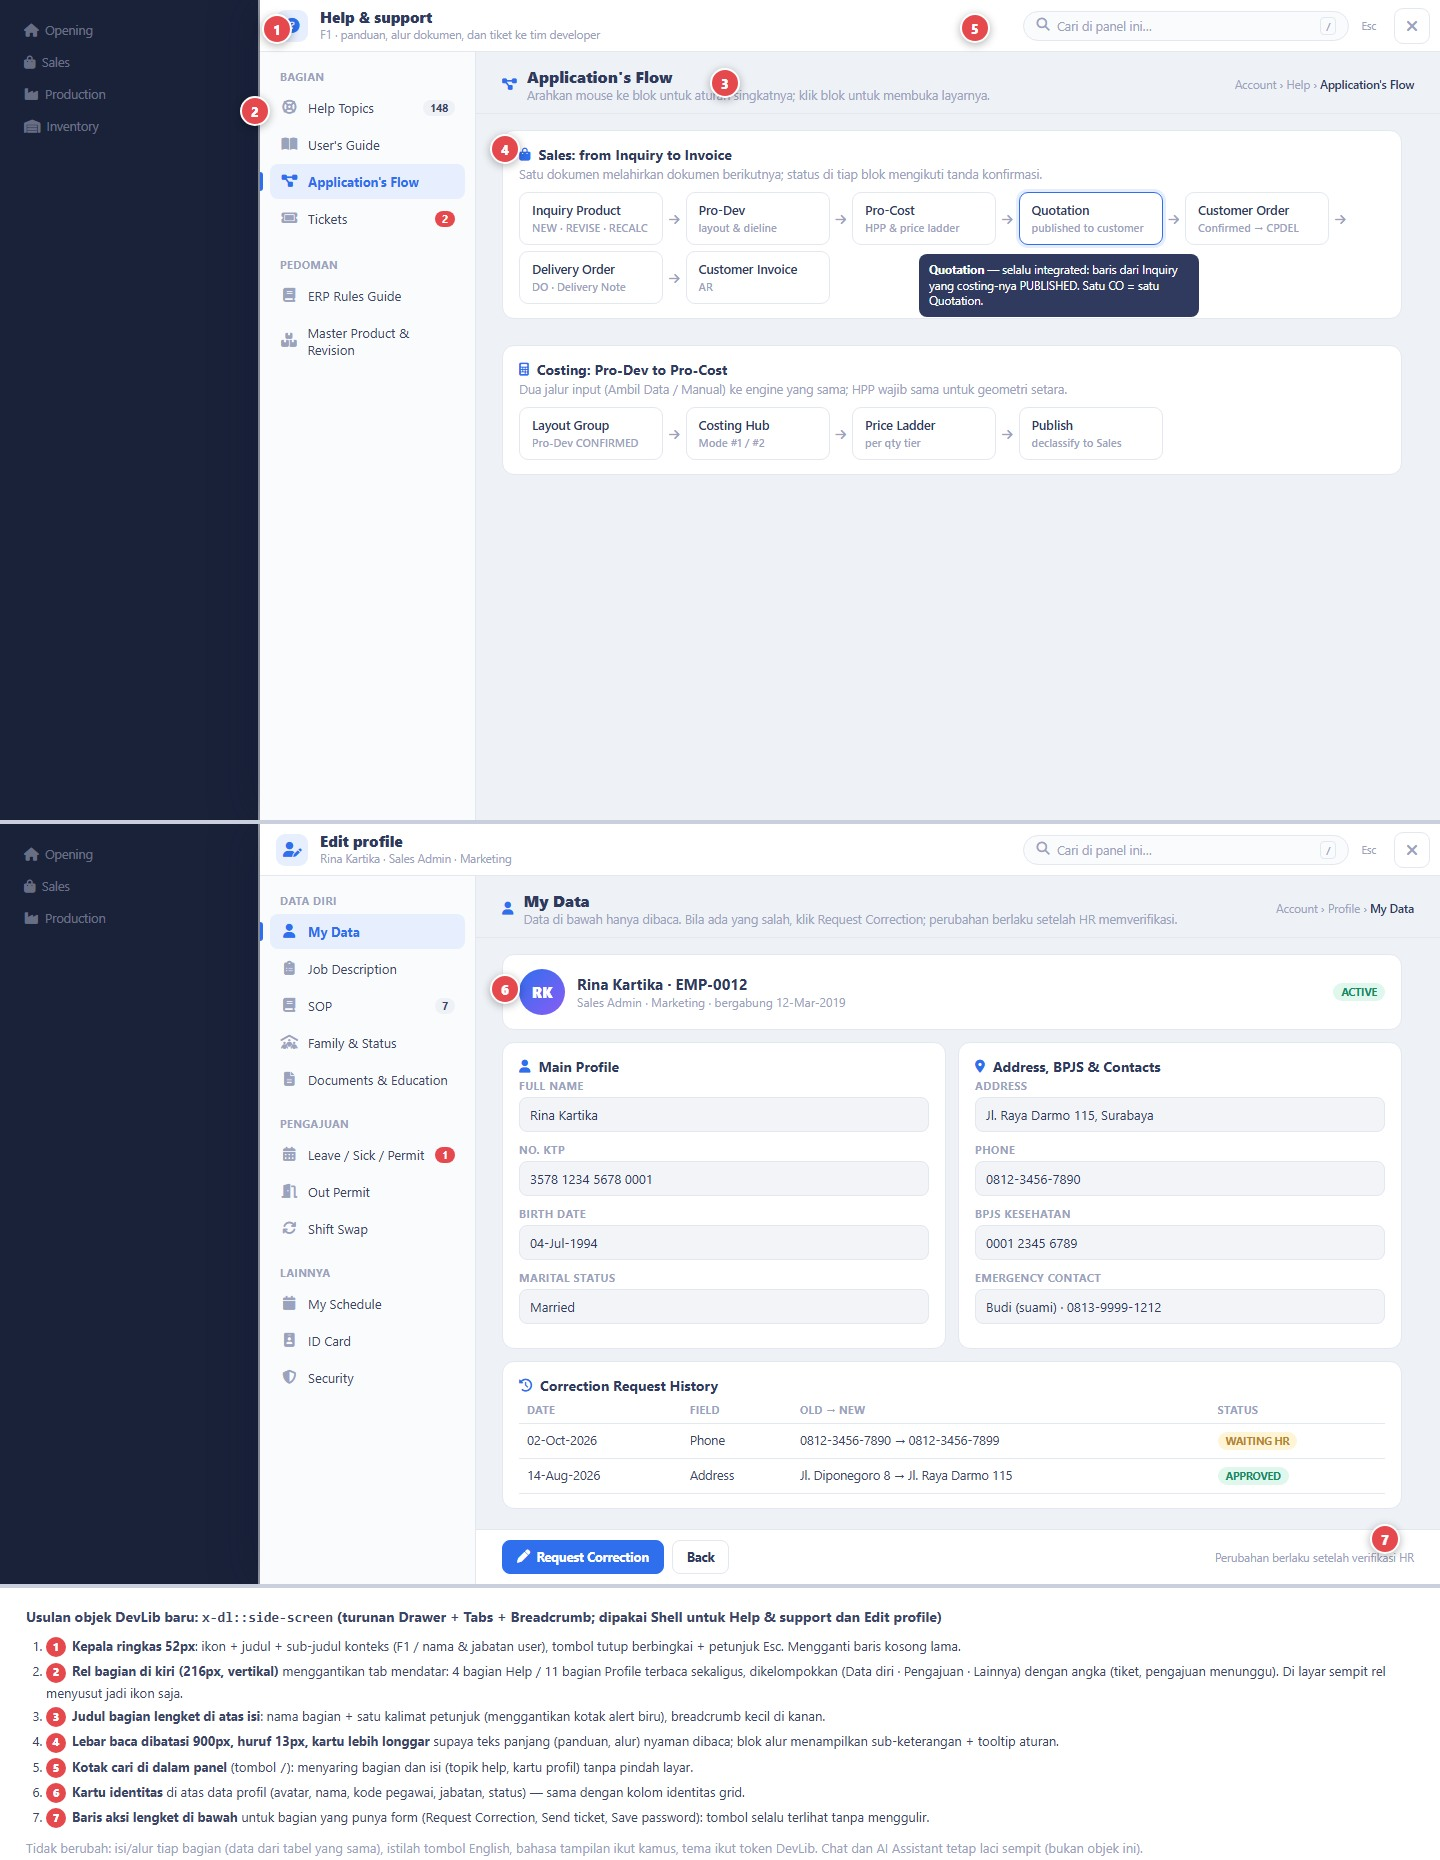
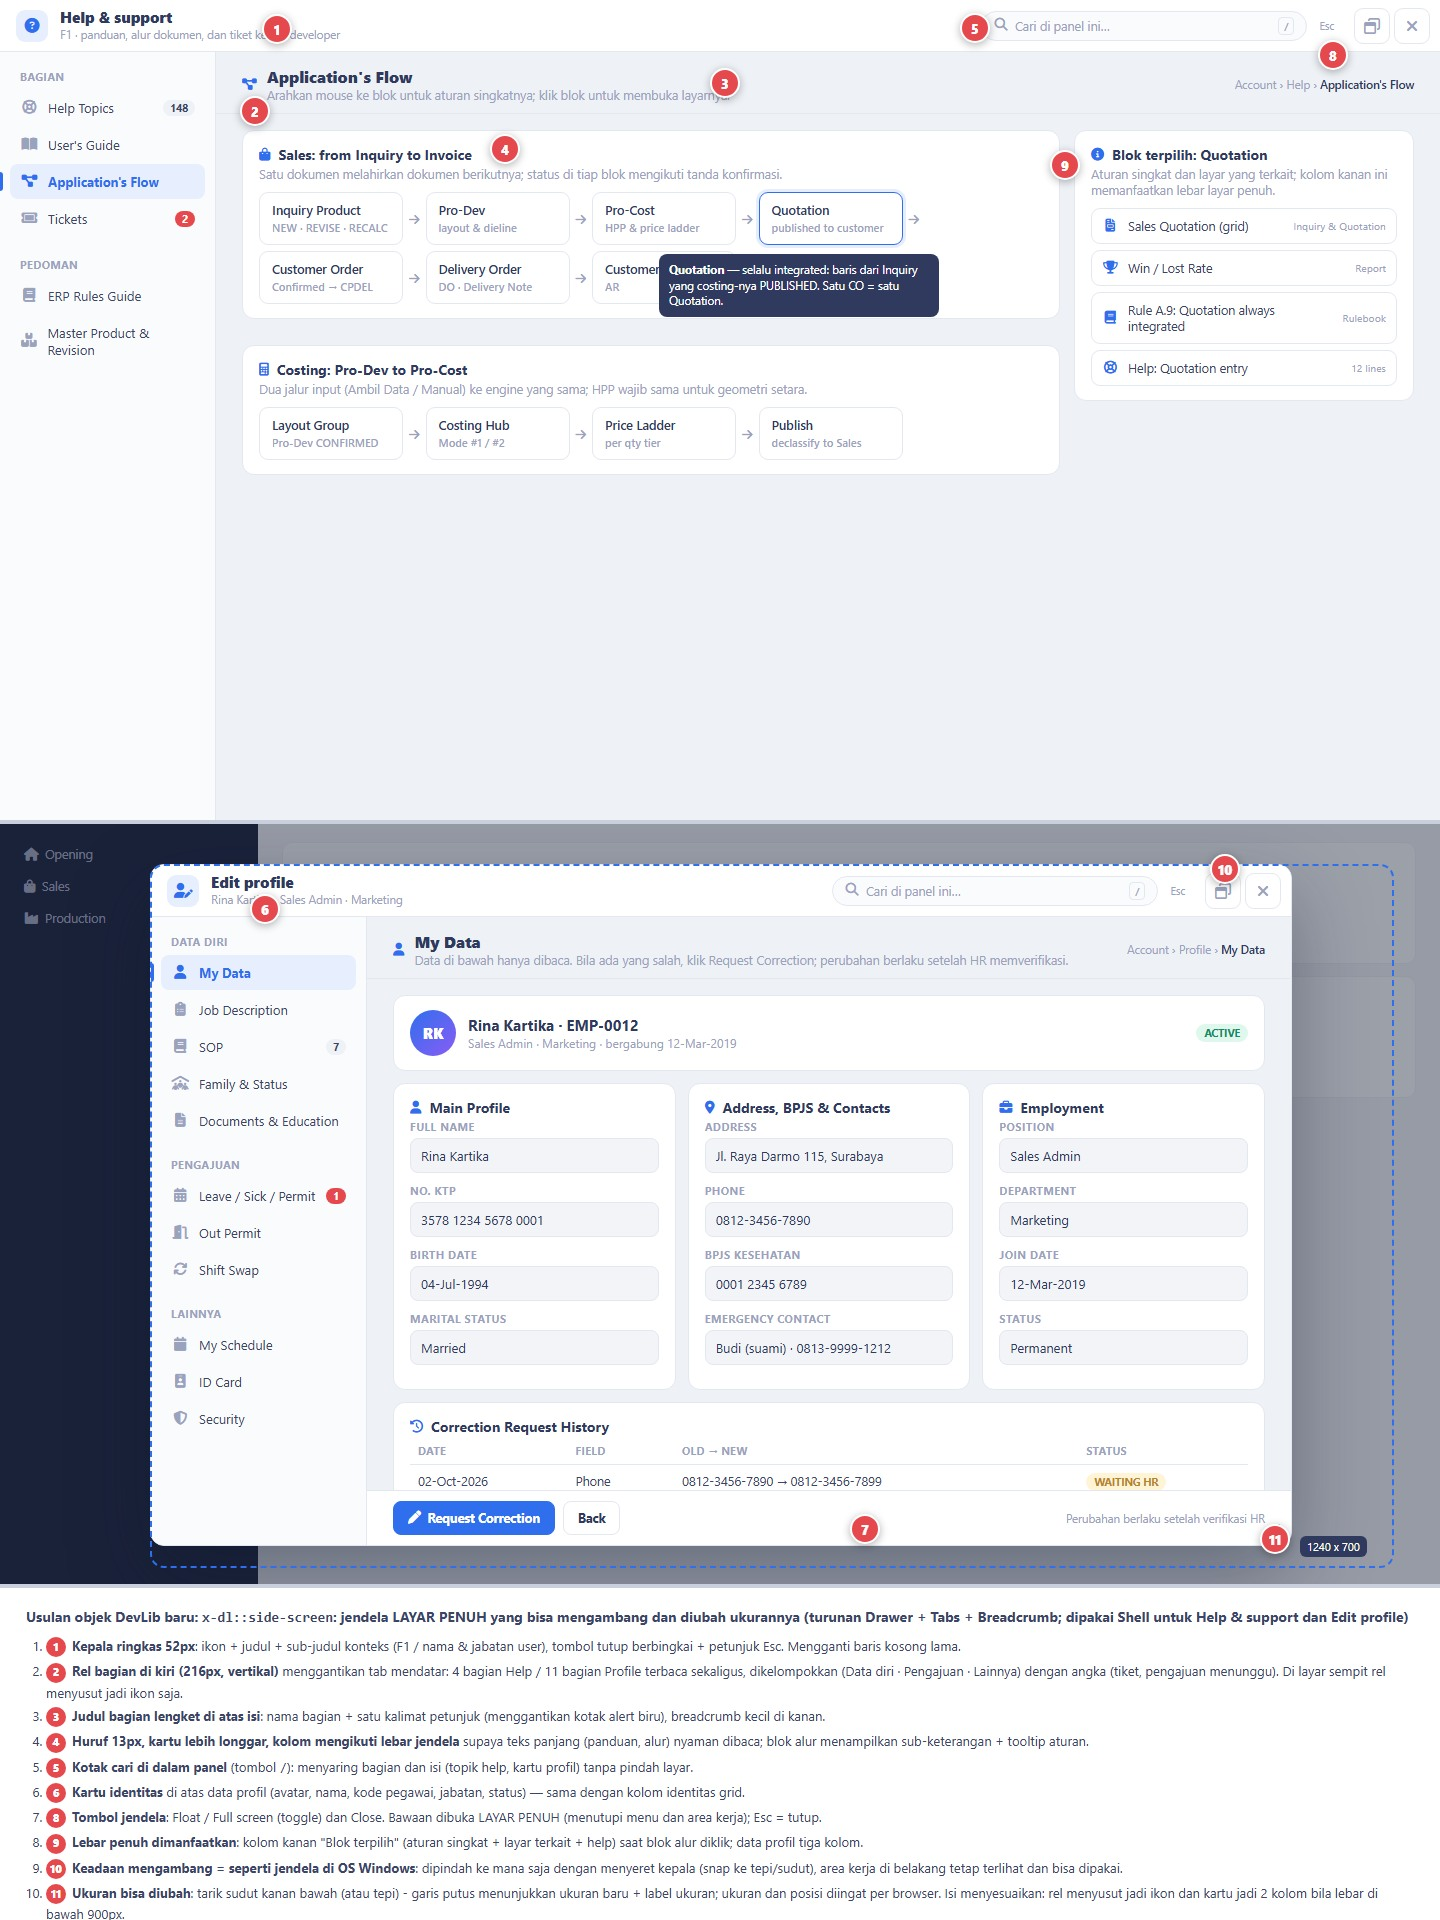
Mockup x-dl::side-screen revised per user: full screen by default, floating window like Windows (move + resize), no minimize

diff --git a/docs/mockups/side_screen_drawer.html b/docs/mockups/side_screen_drawer.html
@@ -15,7 +15,7 @@
   .app .work .box{height:120px;background:#fff;border:1px solid var(--dl-border);border-radius:10px;margin-bottom:12px}
   .shade{position:absolute;inset:0;background:var(--dl-overlay-soft)}
   /* ====== objek baru: x-dl::side-screen ====== */
-  .ss{position:absolute;top:0;right:0;bottom:0;width:1180px;background:var(--dl-surface);box-shadow:-12px 0 40px rgba(15,22,45,.22);display:grid;grid-template-rows:52px 1fr;grid-template-columns:216px 1fr}
+  .ss{position:absolute;inset:0;width:auto;background:var(--dl-surface);box-shadow:-12px 0 40px rgba(15,22,45,.22);display:grid;grid-template-rows:52px 1fr;grid-template-columns:216px 1fr}
   .ss__head{grid-column:1/3;display:flex;align-items:center;gap:12px;padding:0 10px 0 16px;border-bottom:1px solid var(--dl-border);background:var(--dl-surface)}
   .ss__ico{width:32px;height:32px;border-radius:9px;background:var(--dl-accent-soft);color:var(--dl-accent);display:grid;place-items:center;font-size:15px}
   .ss__title{font-weight:800;color:var(--dl-ink-strong);font-size:15px;line-height:1.1}
@@ -39,7 +39,7 @@
   .ss__sec p{margin:0;color:var(--dl-muted);font-size:12.5px}
   .ss__sec .crumb{margin-left:auto;font-size:11.5px;color:var(--dl-muted)}
   .ss__sec .crumb b{color:var(--dl-ink-strong);font-weight:600}
-  .ss__content{padding:16px 26px 30px;max-width:900px;display:flex;flex-direction:column;gap:12px}
+  .ss__content{padding:16px 26px 30px;max-width:none;display:flex;flex-direction:column;gap:12px}
   .card{background:var(--dl-surface);border:1px solid var(--dl-border);border-radius:12px;padding:14px 16px}
   .card h3{margin:0 0 2px;font-size:14px;font-weight:700;color:var(--dl-ink-strong);display:flex;align-items:center;gap:8px}
   .card h3 i{color:var(--dl-accent);font-size:13px}
@@ -76,6 +76,20 @@
   .legend ol{margin:0;padding-left:20px}
   .legend li{margin-bottom:4px}
   .legend .k{display:inline-grid;place-items:center;width:20px;height:20px;border-radius:50%;background:#e5484d;color:#fff;font-weight:800;font-size:11px;margin-right:6px}
+
+  .ss__win{display:flex;align-items:center;gap:4px;margin-left:6px}
+  .ss__win .ss__x{margin:0}
+  .ss--float{inset:auto;top:40px;left:150px;width:1140px;height:680px;border-radius:14px;overflow:hidden;box-shadow:0 30px 80px rgba(15,22,45,.35);border:1px solid var(--dl-border)}
+  .ss--float .ss__head{cursor:move}
+  .grip{position:absolute;right:5px;bottom:5px;color:var(--dl-muted);font-size:13px;transform:rotate(-45deg)}
+  .edge{position:absolute;border:2px dashed var(--dl-accent);border-radius:14px;pointer-events:none}
+  .sizetag{position:absolute;background:var(--dl-toast);color:#fff;font-size:11px;border-radius:6px;padding:3px 7px}
+  .row3{display:grid;grid-template-columns:1fr 1fr 1fr;gap:12px}
+  .side{display:grid;grid-template-columns:1fr 340px;gap:14px;align-items:start}
+  .list{display:flex;flex-direction:column;gap:6px}
+  .list .it{display:flex;gap:10px;align-items:center;padding:9px 10px;border:1px solid var(--dl-border);border-radius:9px;background:var(--dl-surface);font-size:12.5px}
+  .list .it i{color:var(--dl-accent);width:16px;text-align:center}
+  .list .it small{margin-left:auto;color:var(--dl-muted)}
 </style>
 </head>
 <body>
@@ -93,7 +107,7 @@
       <div class="ss__ico"><i class="fa-solid fa-circle-question"></i></div>
       <div><div class="ss__title">Help &amp; support</div><div class="ss__sub">F1 · panduan, alur dokumen, dan tiket ke tim developer</div></div>
       <div class="ss__search"><i class="fa-solid fa-magnifying-glass"></i> Cari di panel ini… <kbd>/</kbd></div>
-      <span class="ss__esc">Esc</span><div class="ss__x"><i class="fa-solid fa-xmark"></i></div>
+      <span class="ss__esc">Esc</span><div class="ss__win"><div class="ss__x" title="Float / Full screen"><i class="fa-regular fa-window-restore"></i></div><div class="ss__x"><i class="fa-solid fa-xmark"></i></div></div>
     </div>
     <nav class="ss__rail">
       <div class="ss__cap">Bagian</div>
@@ -107,7 +121,7 @@
     </nav>
     <div class="ss__body">
       <div class="ss__sec"><i class="fa-solid fa-diagram-project" style="color:var(--dl-accent)"></i><div><h2>Application's Flow</h2><p>Arahkan mouse ke blok untuk aturan singkatnya; klik blok untuk membuka layarnya.</p></div><div class="crumb">Account › Help › <b>Application's Flow</b></div></div>
-      <div class="ss__content">
+      <div class="ss__content"><div class="side"><div style="display:flex;flex-direction:column;gap:12px">
         <div class="card">
           <h3><i class="fa-solid fa-bag-shopping"></i> Sales: from Inquiry to Invoice</h3>
           <div class="d">Satu dokumen melahirkan dokumen berikutnya; status di tiap blok mengikuti tanda konfirmasi.</div>
@@ -132,6 +146,16 @@
             <div class="b">Publish<small>declassify to Sales</small></div>
           </div>
         </div>
+        </div>
+        <div class="card"><h3><i class="fa-solid fa-circle-info"></i> Blok terpilih: Quotation</h3><div class="d">Aturan singkat dan layar yang terkait; kolom kanan ini memanfaatkan lebar layar penuh.</div>
+          <div class="list">
+            <div class="it"><i class="fa-solid fa-file-invoice"></i> Sales Quotation (grid) <small>Inquiry &amp; Quotation</small></div>
+            <div class="it"><i class="fa-solid fa-trophy"></i> Win / Lost Rate <small>Report</small></div>
+            <div class="it"><i class="fa-solid fa-book"></i> Rule A.9: Quotation always integrated <small>Rulebook</small></div>
+            <div class="it"><i class="fa-solid fa-life-ring"></i> Help: Quotation entry <small>12 lines</small></div>
+          </div>
+        </div>
+        </div>
       </div>
     </div>
   </aside>
@@ -141,6 +165,8 @@
   <div class="dev" style="right:700px;top:68px">3</div>
   <div class="dev" style="right:920px;top:134px">4</div>
   <div class="dev" style="right:450px;top:13px">5</div>
+  <div class="dev" style="right:92px;top:40px">8</div>
+  <div class="dev" style="right:360px;top:150px">9</div>
 </div>
 
 <!-- ================= KEADAAN 2: Edit profile > My Data ================= -->
@@ -151,12 +177,12 @@
   </div>
   <div class="shade"></div>
 
-  <aside class="ss">
+  <aside class="ss ss--float">
     <div class="ss__head">
       <div class="ss__ico"><i class="fa-solid fa-user-pen"></i></div>
       <div><div class="ss__title">Edit profile</div><div class="ss__sub">Rina Kartika · Sales Admin · Marketing</div></div>
       <div class="ss__search"><i class="fa-solid fa-magnifying-glass"></i> Cari di panel ini… <kbd>/</kbd></div>
-      <span class="ss__esc">Esc</span><div class="ss__x"><i class="fa-solid fa-xmark"></i></div>
+      <span class="ss__esc">Esc</span><div class="ss__win"><div class="ss__x" title="Float / Full screen"><i class="fa-regular fa-window-restore"></i></div><div class="ss__x"><i class="fa-solid fa-xmark"></i></div></div>
     </div>
     <nav class="ss__rail">
       <div class="ss__cap">Data diri</div>
@@ -178,7 +204,7 @@
       <div class="ss__sec"><i class="fa-solid fa-user" style="color:var(--dl-accent)"></i><div><h2>My Data</h2><p>Data di bawah hanya dibaca. Bila ada yang salah, klik Request Correction; perubahan berlaku setelah HR memverifikasi.</p></div><div class="crumb">Account › Profile › <b>My Data</b></div></div>
       <div class="ss__content">
         <div class="card"><div class="who"><div class="av">RK</div><div><b>Rina Kartika · EMP-0012</b><small>Sales Admin · Marketing · bergabung 12-Mar-2019</small></div><span class="badge b-ok" style="margin-left:auto">ACTIVE</span></div></div>
-        <div class="row2">
+        <div class="row3">
           <div class="card"><h3><i class="fa-solid fa-user"></i> Main Profile</h3>
             <div class="f"><label>Full name</label><div class="v">Rina Kartika</div></div>
             <div class="f"><label>No. KTP</label><div class="v">3578 1234 5678 0001</div></div>
@@ -191,6 +217,12 @@
             <div class="f"><label>BPJS Kesehatan</label><div class="v">0001 2345 6789</div></div>
             <div class="f"><label>Emergency contact</label><div class="v">Budi (suami) · 0813-9999-1212</div></div>
           </div>
+          <div class="card"><h3><i class="fa-solid fa-briefcase"></i> Employment</h3>
+            <div class="f"><label>Position</label><div class="v">Sales Admin</div></div>
+            <div class="f"><label>Department</label><div class="v">Marketing</div></div>
+            <div class="f"><label>Join date</label><div class="v">12-Mar-2019</div></div>
+            <div class="f"><label>Status</label><div class="v">Permanent</div></div>
+          </div>
         </div>
         <div class="card"><h3><i class="fa-solid fa-clock-rotate-left"></i> Correction Request History</h3>
           <table><tr><th>Date</th><th>Field</th><th>Old → New</th><th>Status</th></tr>
@@ -201,24 +233,32 @@
       </div>
       <div class="ss__foot"><span class="btn p"><i class="fa-solid fa-pen"></i> Request Correction</span><span class="btn">Back</span><span class="hint">Perubahan berlaku setelah verifikasi HR</span></div>
     </div>
+    <i class="fa-solid fa-up-right-and-down-left-from-center grip"></i>
   </aside>
+  <div class="edge" style="top:40px;left:150px;width:1240px;height:700px"></div><div class="sizetag" style="left:1300px;top:712px">1240 x 700</div>
 
-  <div class="dev" style="right:920px;top:150px">6</div>
-  <div class="dev" style="right:40px;top:700px">7</div>
+  <div class="dev" style="right:1160px;top:70px">6</div>
+  <div class="dev" style="right:200px;top:30px">10</div>
+  <div class="dev" style="right:150px;top:700px">11</div>
+  <div class="dev" style="right:560px;top:690px">7</div>
 </div>
 
 <div class="legend">
-  <h4>Usulan objek DevLib baru: <code>x-dl::side-screen</code> (turunan Drawer + Tabs + Breadcrumb; dipakai Shell untuk Help &amp; support dan Edit profile)</h4>
+  <h4>Usulan objek DevLib baru: <code>x-dl::side-screen</code>: jendela LAYAR PENUH yang bisa mengambang dan diubah ukurannya (turunan Drawer + Tabs + Breadcrumb; dipakai Shell untuk Help &amp; support dan Edit profile)</h4>
   <ol>
     <li><span class="k">1</span><b>Kepala ringkas 52px</b>: ikon + judul + sub-judul konteks (F1 / nama &amp; jabatan user), tombol tutup berbingkai + petunjuk Esc. Mengganti baris kosong lama.</li>
     <li><span class="k">2</span><b>Rel bagian di kiri (216px, vertikal)</b> menggantikan tab mendatar: 4 bagian Help / 11 bagian Profile terbaca sekaligus, dikelompokkan (Data diri · Pengajuan · Lainnya) dengan angka (tiket, pengajuan menunggu). Di layar sempit rel menyusut jadi ikon saja.</li>
     <li><span class="k">3</span><b>Judul bagian lengket di atas isi</b>: nama bagian + satu kalimat petunjuk (menggantikan kotak alert biru), breadcrumb kecil di kanan.</li>
-    <li><span class="k">4</span><b>Lebar baca dibatasi 900px, huruf 13px, kartu lebih longgar</b> supaya teks panjang (panduan, alur) nyaman dibaca; blok alur menampilkan sub-keterangan + tooltip aturan.</li>
+    <li><span class="k">4</span><b>Huruf 13px, kartu lebih longgar, kolom mengikuti lebar jendela</b> supaya teks panjang (panduan, alur) nyaman dibaca; blok alur menampilkan sub-keterangan + tooltip aturan.</li>
     <li><span class="k">5</span><b>Kotak cari di dalam panel</b> (tombol <kbd>/</kbd>): menyaring bagian dan isi (topik help, kartu profil) tanpa pindah layar.</li>
     <li><span class="k">6</span><b>Kartu identitas</b> di atas data profil (avatar, nama, kode pegawai, jabatan, status) — sama dengan kolom identitas grid.</li>
+    <li><span class="k">8</span><b>Tombol jendela</b>: Float / Full screen (toggle) dan Close. Bawaan dibuka LAYAR PENUH (menutupi menu dan area kerja); Esc = tutup.</li>
+    <li><span class="k">9</span><b>Lebar penuh dimanfaatkan</b>: kolom kanan "Blok terpilih" (aturan singkat + layar terkait + help) saat blok alur diklik; data profil tiga kolom.</li>
+    <li><span class="k">10</span><b>Keadaan mengambang = seperti jendela di OS Windows</b>: dipindah ke mana saja dengan menyeret kepala (snap ke tepi/sudut), area kerja di belakang tetap terlihat dan bisa dipakai.</li>
+    <li><span class="k">11</span><b>Ukuran bisa diubah</b>: tarik sudut kanan bawah (atau tepi) - garis putus menunjukkan ukuran baru + label ukuran; ukuran dan posisi diingat per browser. Isi menyesuaikan: rel menyusut jadi ikon dan kartu jadi 2 kolom bila lebar di bawah 900px.</li>
     <li><span class="k">7</span><b>Baris aksi lengket di bawah</b> untuk bagian yang punya form (Request Correction, Send ticket, Save password): tombol selalu terlihat tanpa menggulir.</li>
   </ol>
-  <p style="margin:10px 0 0;color:var(--dl-muted)">Tidak berubah: isi/alur tiap bagian (data dari tabel yang sama), istilah tombol English, bahasa tampilan ikut kamus, tema ikut token DevLib. Chat dan AI Assistant tetap laci sempit (bukan objek ini).</p>
+  <p style="margin:10px 0 0;color:var(--dl-muted)">Tidak berubah: isi/alur tiap bagian (data dari tabel yang sama), istilah tombol English, bahasa tampilan ikut kamus, tema ikut token DevLib. Tidak ada tombol minimize (ralat user). Chat dan AI Assistant tetap laci sempit (bukan objek ini).</p>
 </div>
 </body>
 </html>
